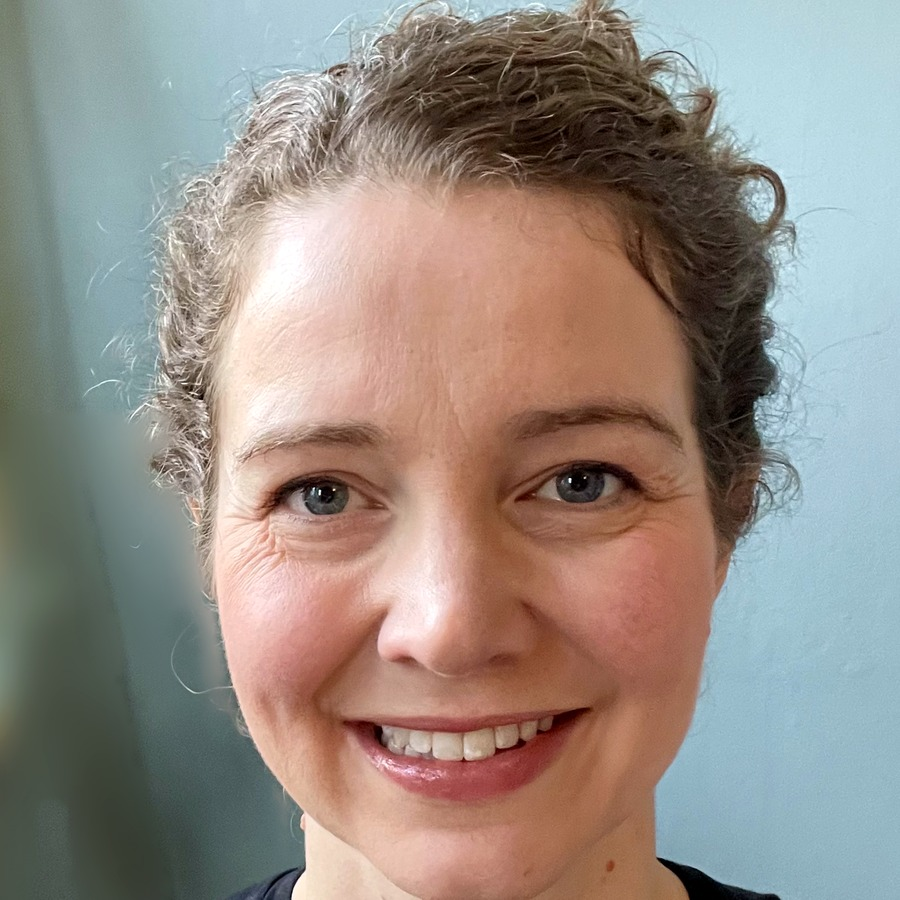
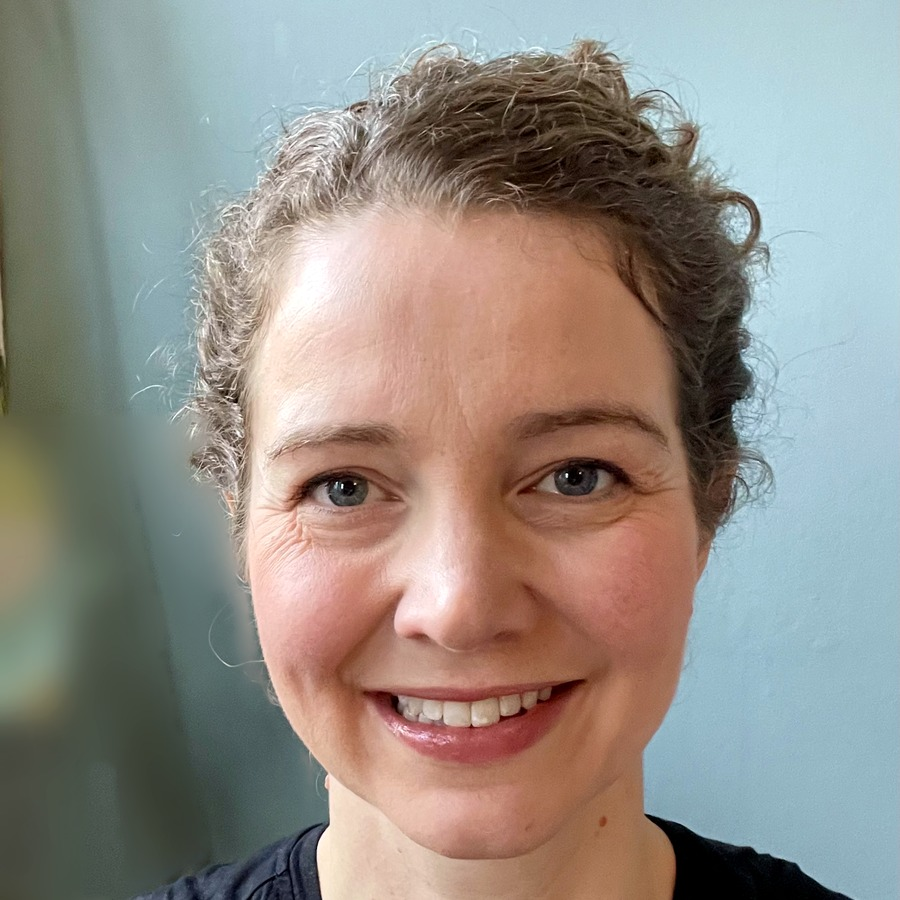
Map pins, class cards with descriptions, Buttondown embed, Greenbank name fix
- Leaflet map replacing Google Maps iframe; corrected coordinates for both venues
- Rename Greenbank Parish Church to Greenbank Church throughout
- Class cards redesigned: single column, first-sentence preview, Show more toggle
  (Gentle Yoga and Online omit toggle — full text shown)
- Buttondown mailing list iframe replaces placeholder form
- Veronica headshot added

diff --git a/index.html b/index.html
@@ -118,31 +118,75 @@
     <section class="classes section bg-tint" id="classes" aria-labelledby="classes-heading">
       <div class="container">
         <h2 id="classes-heading">Types of Classes</h2>
-        <div class="classes-grid">
+        <div class="classes-list">
 
-          <article class="class-card" aria-label="Gentle Yoga">
-            <div class="card-badge" aria-label="New class">NEW</div>
-            <h3>Gentle Yoga</h3>
-            <p class="class-time">Wednesdays · 10:30–11:30 am</p>
-            <p class="class-location">Greenbank Parish Church</p>
+          <article class="class-card" aria-label="Vinyasa Flow">
+            <div class="class-card-header">
+              <div>
+                <h3>Vinyasa Flow <span class="card-sub">(all levels)</span></h3>
+                <p class="class-time">Thursdays · 9:30–10:30 am</p>
+                <p class="class-location">Morningside Parish Church</p>
+              </div>
+              <a href="#book" class="btn btn-filled btn-sm">Book</a>
+            </div>
+            <div class="class-desc">
+              <p class="class-desc-preview">We begin with a grounding practice to connect the mind with body and breath.</p>
+              <div class="class-desc-more" hidden>
+                <p>You will have the opportunity to move, open, and build strength, as well as develop mind-body awareness. The class will enable you to explore what your body needs, with guidance for adaptations and variations provided. You will leave feeling grounded, calm, and energised for the day.</p>
+                <p class="class-note">*Please bring your own mat and any props such as blocks.<br>*This class is not suitable during pregnancy.</p>
+              </div>
+              <button class="class-toggle" aria-expanded="false">Show more</button>
+            </div>
           </article>
 
           <article class="class-card" aria-label="Beginners Yoga">
-            <h3>Beginners Yoga</h3>
-            <p class="class-time">Fridays · 9:30–10:30 am</p>
-            <p class="class-location">Morningside Parish Church</p>
+            <div class="class-card-header">
+              <div>
+                <h3>Beginners Yoga</h3>
+                <p class="class-time">Fridays · 9:30–10:30 am</p>
+                <p class="class-location">Morningside Parish Church</p>
+              </div>
+              <a href="#book" class="btn btn-filled btn-sm">Book</a>
+            </div>
+            <div class="class-desc">
+              <p class="class-desc-preview">This class is for beginners, or those returning to a weekly yoga class following a break.</p>
+              <div class="class-desc-more" hidden>
+                <p>The postures will include poses on the floor, standing up and sitting down, allowing your body to develop and maintain flexibility, mobility and strength. Simple breathing practices (pranayama), meditation, and guided relaxation will be part of the class.</p>
+                <p>The class will give you confidence to begin your own yoga practice at home if you wish, and is designed to help you release any stress that may have built up through the week. You will leave feeling refreshed and ready for the day.</p>
+                <p>Please bring a yoga mat and two yoga blocks. If you have any questions please get in touch.</p>
+                <p class="class-note">*This class is not suitable during pregnancy.</p>
+              </div>
+              <button class="class-toggle" aria-expanded="false">Show more</button>
+            </div>
           </article>
 
-          <article class="class-card" aria-label="Vinyasa Flow">
-            <h3>Vinyasa Flow <span class="card-sub">(all levels)</span></h3>
-            <p class="class-time">Thursdays · 9:30–10:30 am</p>
-            <p class="class-location">Morningside Parish Church</p>
+          <article class="class-card" aria-label="Gentle Yoga">
+            <div class="card-badge" aria-label="New class">NEW</div>
+            <div class="class-card-header">
+              <div>
+                <h3>Gentle Yoga</h3>
+                <p class="class-time">Wednesdays · 10:30–11:30 am</p>
+                <p class="class-location">Greenbank Church</p>
+              </div>
+              <a href="#book" class="btn btn-filled btn-sm">Book</a>
+            </div>
+            <div class="class-desc">
+              <p class="class-desc-preview">A slower-paced class focusing on gentle movement, breath and relaxation — suitable for all levels including those with limited mobility or those new to yoga.</p>
+            </div>
           </article>
 
           <article class="class-card" aria-label="Online classes">
-            <h3>Online Classes</h3>
-            <p class="class-time">Join from anywhere</p>
-            <p class="class-location">Live &amp; on-demand options</p>
+            <div class="class-card-header">
+              <div>
+                <h3>Online Classes</h3>
+                <p class="class-time">Join from anywhere</p>
+                <p class="class-location">Live &amp; on-demand options</p>
+              </div>
+              <a href="mailto:[email redacted]" class="btn btn-filled btn-sm">Enquire</a>
+            </div>
+            <div class="class-desc">
+              <p class="class-desc-preview">Can't make it in person? Online classes let you practise from the comfort of your own home, with live sessions and on-demand recordings available.</p>
+            </div>
           </article>
 
         </div>
@@ -178,20 +222,14 @@
         <h2 id="mailing-heading">Stay in the loop</h2>
         <p>Occasional updates on new classes, workshops and timetable changes.</p>
 
-        <!-- MAILING LIST EMBED — replace this comment block with your provider's snippet (MailerLite / Buttondown / Mailchimp) -->
-        <form class="mailing-form" action="mailto:[email redacted]" method="get" aria-label="Sign up for mailing list">
-          <label for="email-input" class="sr-only">Email address</label>
-          <input
-            type="email"
-            id="email-input"
-            name="email"
-            placeholder="Your email address"
-            required
-            autocomplete="email"
-          >
-          <button type="submit" class="btn btn-filled btn-light">Sign up</button>
-        </form>
-        <!-- END MAILING LIST EMBED -->
+        <div class="mailing-embed">
+          <iframe
+            scrolling="no"
+            style="width:100%;height:220px;border:0;border-radius:8px"
+            src="https://buttondown.com/yogawithveronica.co.uk?as_embed=true"
+            title="Sign up for the Yoga with Veronica mailing list"
+          ></iframe>
+        </div>
 
       </div>
     </section>
@@ -208,7 +246,7 @@
               <p class="venue-classes">Beginners Yoga &amp; Vinyasa Flow</p>
             </div>
             <div class="venue">
-              <h3>Greenbank Parish Church</h3>
+              <h3>Greenbank Church</h3>
               <p class="venue-address">Braidburn Terrace, Edinburgh</p>
               <p class="venue-classes">Gentle Yoga</p>
             </div>

diff --git a/style.css b/style.css
@@ -275,11 +275,7 @@ h3 { font-size: 1.2rem; font-weight: 500; }
 
 /* ===== CLASSES ===== */
 .classes h2 { margin-bottom: 2rem; }
-.classes-grid {
-  display: grid;
-  grid-template-columns: repeat(2, 1fr);
-  gap: 1.25rem;
-}
+.classes-list { display: flex; flex-direction: column; gap: 1.25rem; }
 .class-card {
   background: #fff;
   border: 1px solid var(--sand-line);
@@ -287,13 +283,20 @@ h3 { font-size: 1.2rem; font-weight: 500; }
   padding: 1.5rem;
   position: relative;
 }
-.class-card h3 { margin-bottom: 0.5rem; }
+.class-card-header {
+  display: flex;
+  align-items: flex-start;
+  justify-content: space-between;
+  gap: 1rem;
+  margin-bottom: 1rem;
+}
+.class-card h3 { margin-bottom: 0.35rem; }
 .card-sub { font-size: 0.85em; color: var(--muted); font-weight: 400; }
 .class-time {
   color: var(--blue);
   font-weight: 600;
   font-size: 0.95rem;
-  margin-bottom: 0.25rem;
+  margin-bottom: 0.2rem;
 }
 .class-location { color: var(--muted); font-size: 0.9rem; }
 .card-badge {
@@ -307,9 +310,26 @@ h3 { font-size: 1.2rem; font-weight: 500; }
   padding: 0.2em 0.6em;
   border-radius: var(--radius-pill);
 }
+.class-desc { color: var(--ink); }
+.class-desc-preview { margin-bottom: 0.5rem; }
+.class-desc-more { margin-top: 0.75rem; display: flex; flex-direction: column; gap: 0.75rem; }
+.class-note { color: var(--muted); font-size: 0.9rem; }
+.class-toggle {
+  background: none;
+  border: none;
+  color: var(--blue);
+  font-family: var(--font-sans);
+  font-size: 0.9rem;
+  font-weight: 600;
+  padding: 0;
+  cursor: pointer;
+  margin-top: 0.25rem;
+}
+.class-toggle:hover { text-decoration: underline; }
 
-@media (max-width: 600px) {
-  .classes-grid { grid-template-columns: 1fr; }
+@media (max-width: 500px) {
+  .class-card-header { flex-direction: column; }
+  .class-card-header .btn { align-self: flex-start; }
 }
 
 /* ===== BOOK ===== */
@@ -365,26 +385,7 @@ h3 { font-size: 1.2rem; font-weight: 500; }
 /* ===== MAILING ===== */
 .mailing-inner { max-width: 560px; margin-inline: auto; text-align: center; }
 .mailing-inner h2 { margin-bottom: 0.5rem; }
-.mailing-form {
-  display: flex;
-  gap: 0.5rem;
-  margin-top: 1.5rem;
-  flex-wrap: wrap;
-}
-.mailing-form input[type="email"] {
-  flex: 1;
-  min-width: 200px;
-  padding: 0.65em 1.2em;
-  border-radius: var(--radius-pill);
-  border: 1px solid rgba(255,255,255,0.4);
-  background: rgba(255,255,255,0.12);
-  color: #fff;
-  font-family: var(--font-sans);
-  font-size: 0.95rem;
-  outline: none;
-}
-.mailing-form input[type="email"]::placeholder { color: rgba(255,255,255,0.6); }
-.mailing-form input[type="email"]:focus { border-color: #fff; background: rgba(255,255,255,0.2); }
+.mailing-embed { margin-top: 1.5rem; width: 100%; }
 
 /* ===== LOCATION ===== */
 .location h2 { margin-bottom: 2rem; }
@@ -398,12 +399,12 @@ h3 { font-size: 1.2rem; font-weight: 500; }
 .venue h3 { margin-bottom: 0.25rem; }
 .venue-address { color: var(--muted); font-size: 0.95rem; }
 .venue-classes { color: var(--blue); font-size: 0.875rem; font-weight: 600; margin-top: 0.2rem; }
-.location-map iframe {
+#venue-map {
   width: 100%;
   height: 380px;
-  border: 0;
   border-radius: var(--radius-card);
   border: 1px solid var(--sand-line);
+  overflow: hidden;
 }
 .map-note { margin-top: 0.5rem; color: var(--muted); font-size: 0.8rem; }
 

diff --git a/main.js b/main.js
@@ -17,18 +17,29 @@ if (toggle && navLinks) {
   });
 }
 
+// Class description toggles
+document.querySelectorAll('.class-toggle').forEach(btn => {
+  btn.addEventListener('click', () => {
+    const more = btn.previousElementSibling;
+    const expanded = more.hidden;
+    more.hidden = !expanded;
+    btn.textContent = expanded ? 'Show less' : 'Show more';
+    btn.setAttribute('aria-expanded', expanded);
+  });
+});
+
 // Venue map — two markers, both churches visible
 const mapEl = document.getElementById('venue-map');
 if (mapEl && typeof L !== 'undefined') {
-  const map = L.map('venue-map', { scrollWheelZoom: false }).setView([55.9141, -3.2020], 15);
+  const map = L.map('venue-map', { scrollWheelZoom: false }).setView([55.9217, -3.2107], 15);
   L.tileLayer('https://{s}.tile.openstreetmap.org/{z}/{x}/{y}.png', {
     attribution: '© <a href="https://www.openstreetmap.org/copyright">OpenStreetMap</a> contributors',
     maxZoom: 19
   }).addTo(map);
-  L.marker([55.9167, -3.2048]).addTo(map)
-    .bindPopup('<strong>Morningside Parish Church</strong><br>Braid Road<br><em>Beginners Yoga &amp; Vinyasa Flow</em>');
-  L.marker([55.9116, -3.1992]).addTo(map)
-    .bindPopup('<strong>Greenbank Parish Church</strong><br>Braidburn Terrace<br><em>Gentle Yoga</em>');
+  L.marker([55.9243, -3.2087]).addTo(map)
+    .bindPopup('<strong>Morningside Parish Church</strong><br>2 Cluny Gardens<br><em>Beginners Yoga &amp; Vinyasa Flow</em>');
+  L.marker([55.9191, -3.2126]).addTo(map)
+    .bindPopup('<strong>Greenbank Church</strong><br>Braidburn Terrace<br><em>Gentle Yoga</em>');
 }
 
 // Footer year